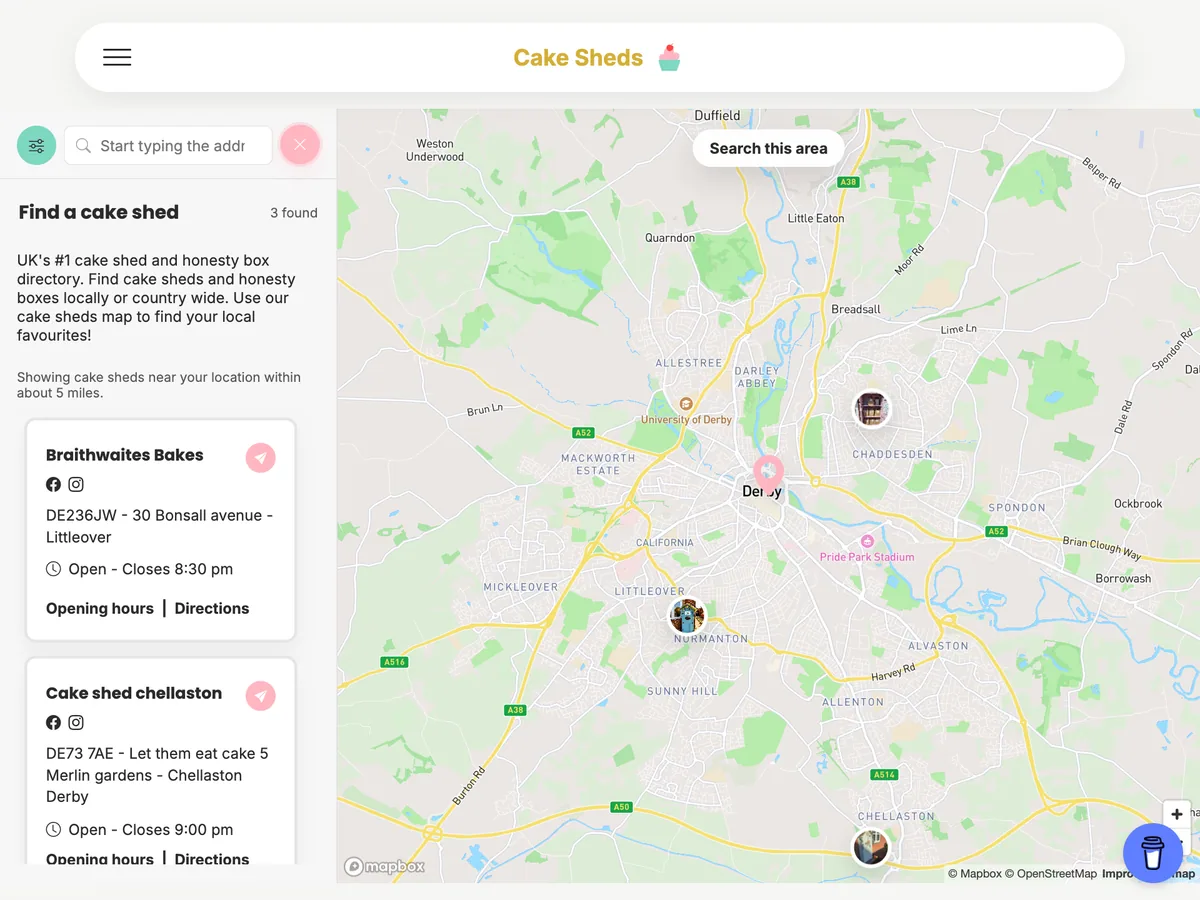
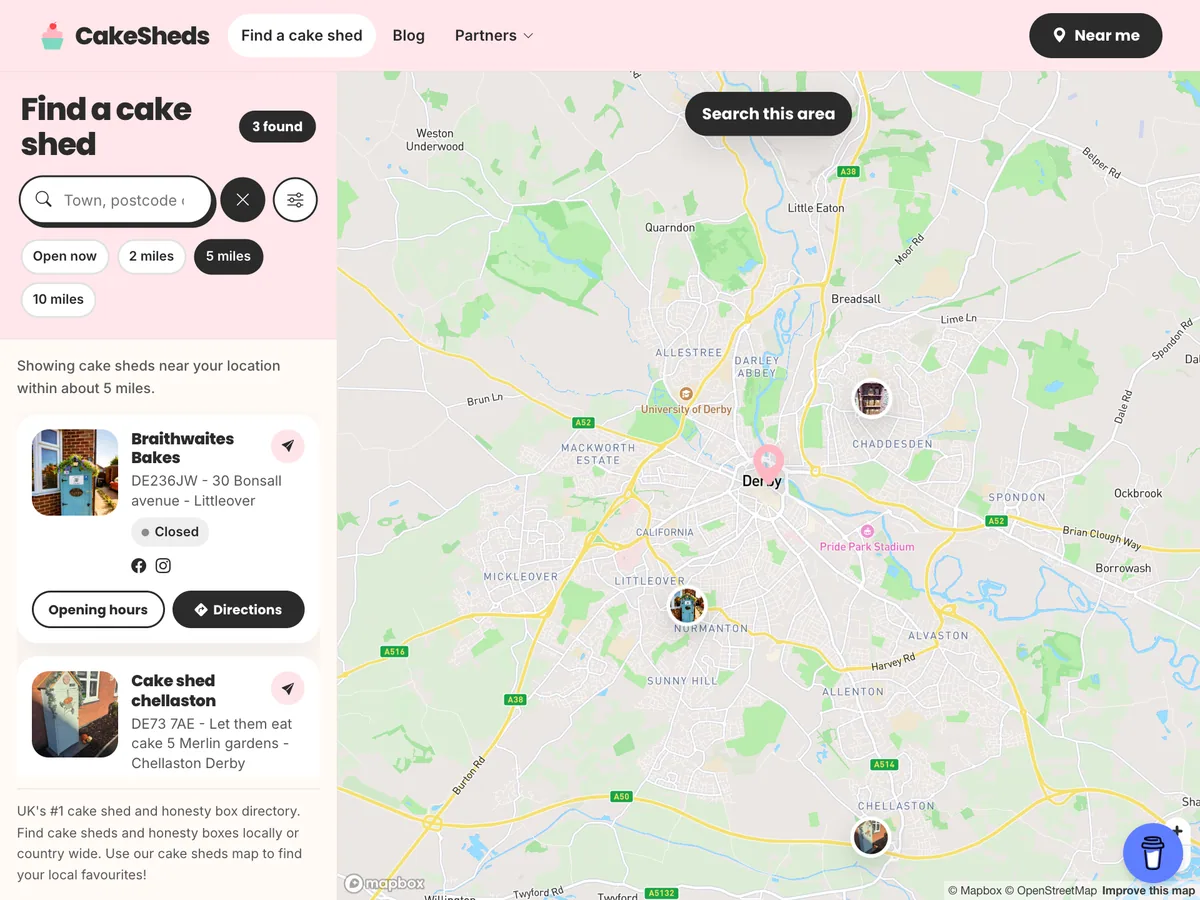
Tweak mobile card images, refresh site screenshots, widen case study titles
- Phones: smaller Slimming World mockup, larger Flights Direct mockup
  with less gap above its text
- New CakeSheds and The Two Dolphins screenshots from their redesigned sites
- Case study titles span the page width (2 lines on laptop) so the cover
  image starts on the first screen

diff --git a/index.html b/index.html
@@ -66,7 +66,7 @@
         </div>
 
         <ul class="projects">
-          <li class="project reveal">
+          <li class="project project--sw reveal">
             <div class="project-body">
               <span class="eyebrow">Slimming World</span>
               <h3><a href="work/digital-coaching/">Exploring digital coaching for weight management</a></h3>
@@ -149,7 +149,7 @@
         </div>
         <ul class="sites">
           <li class="site reveal">
-            <div class="site-media"><img src="assets/img/site-cakesheds.webp" width="1200" height="900" loading="lazy" alt="Cake Sheds finder: a map of Derby with cake shed pins beside a list of nearby cake sheds and their opening times."></div>
+            <div class="site-media"><img src="assets/img/site-cakesheds.webp" width="1200" height="900" loading="lazy" alt="CakeSheds finder: a map of Derby with cake shed pins, beside search filters and a list of nearby cake sheds."></div>
             <h3>CakeSheds</h3>
             <p>Designing and developing the CakeSheds local finder.</p>
             <ul class="chips"><li class="chip chip--design">UX/UI design</li></ul>
@@ -163,7 +163,7 @@
             <a class="site-cta" href="https://percytechnology.wixstudio.com/markpercy" target="_blank" rel="noopener">See website <span class="arrow" aria-hidden="true">→</span><span class="visually-hidden">: Developer Portfolio (opens in a new tab)</span></a>
           </li>
           <li class="site reveal">
-            <div class="site-media"><img src="assets/img/site-two-dolphins.webp" width="1200" height="900" loading="lazy" alt="The Two Dolphins guesthouse homepage: a welcome panel over a sunset view of the Breede River."></div>
+            <div class="site-media"><img src="assets/img/site-two-dolphins.webp" width="1200" height="900" loading="lazy" alt="The Two Dolphins guesthouse homepage: the guesthouse name over an aerial view of the Breede River, with a 'What are you planning?' panel below."></div>
             <h3>The Two Dolphins</h3>
             <p>Designing and developing the website for a guesthouse in South Africa.</p>
             <ul class="chips"><li class="chip chip--design">UX/UI design</li><li class="chip chip--dev">Front-end dev</li></ul>

diff --git a/css/styles.css b/css/styles.css
@@ -281,6 +281,11 @@ ul, ol { margin: 0; padding: 0; }
   /* Cards with a phone-specific image (<picture>) show the whole image at its own shape */
   .project-media:has(picture), .project:nth-child(even) .project-media:has(picture) { aspect-ratio: auto; padding: 0.75rem 1.25rem 0; }
   .project-media:has(picture) img { height: auto; object-fit: contain; }
+  /* Slightly smaller Slimming World phones on mobile */
+  .project--sw .project-media:has(picture) { padding-inline: 2.5rem; }
+  /* Larger Flights Direct phones on mobile */
+  .project--fd.project .project-media:has(picture) { padding: 0; }
+  .project--fd .project-body { padding-top: 0.25rem; }
 }
 
 /* Websites grid -------------------------------------------------------- */
@@ -343,11 +348,11 @@ ul, ol { margin: 0; padding: 0; }
 
 .progress { position: fixed; inset: 0 0 auto; height: 4px; z-index: 60; transform-origin: 0 50%; transform: scaleX(0); background: var(--c); }
 
-.cs-hero { padding-block: clamp(2.5rem, 6vw, 5rem) 0; }
-.cs-hero .back { display: flex; width: fit-content; gap: 0.4rem; align-items: center; font-weight: 500; color: var(--muted); text-decoration: none; margin-bottom: 2rem; }
+.cs-hero { padding-block: clamp(1.5rem, 4vw, 3rem) 0; }
+.cs-hero .back { display: flex; width: fit-content; gap: 0.4rem; align-items: center; font-weight: 500; color: var(--muted); text-decoration: none; margin-bottom: 1.5rem; }
 .cs-hero .back:hover { color: var(--ink); }
-.cs-hero h1 { font-family: var(--font-display); font-size: var(--step-4); font-weight: 500; letter-spacing: -0.025em; margin-top: 0.9rem; max-width: 20ch; }
-.cs-hero .lede { margin-top: 1.4rem; font-size: var(--step-1); color: var(--ink-soft); max-width: 58ch; }
+.cs-hero h1 { font-family: var(--font-display); font-size: var(--step-4); font-weight: 500; letter-spacing: -0.025em; margin-top: 0.9rem; max-width: 32ch; text-wrap: balance; }
+.cs-hero .lede { margin-top: 1.2rem; font-size: var(--step-1); color: var(--ink-soft); max-width: 72ch; }
 .meta {
   margin-top: clamp(2rem, 4vw, 3rem); display: grid; grid-template-columns: repeat(5, auto); gap: 1.25rem 2.5rem;
   padding-block: 1.5rem; border-block: 1px solid var(--line);
